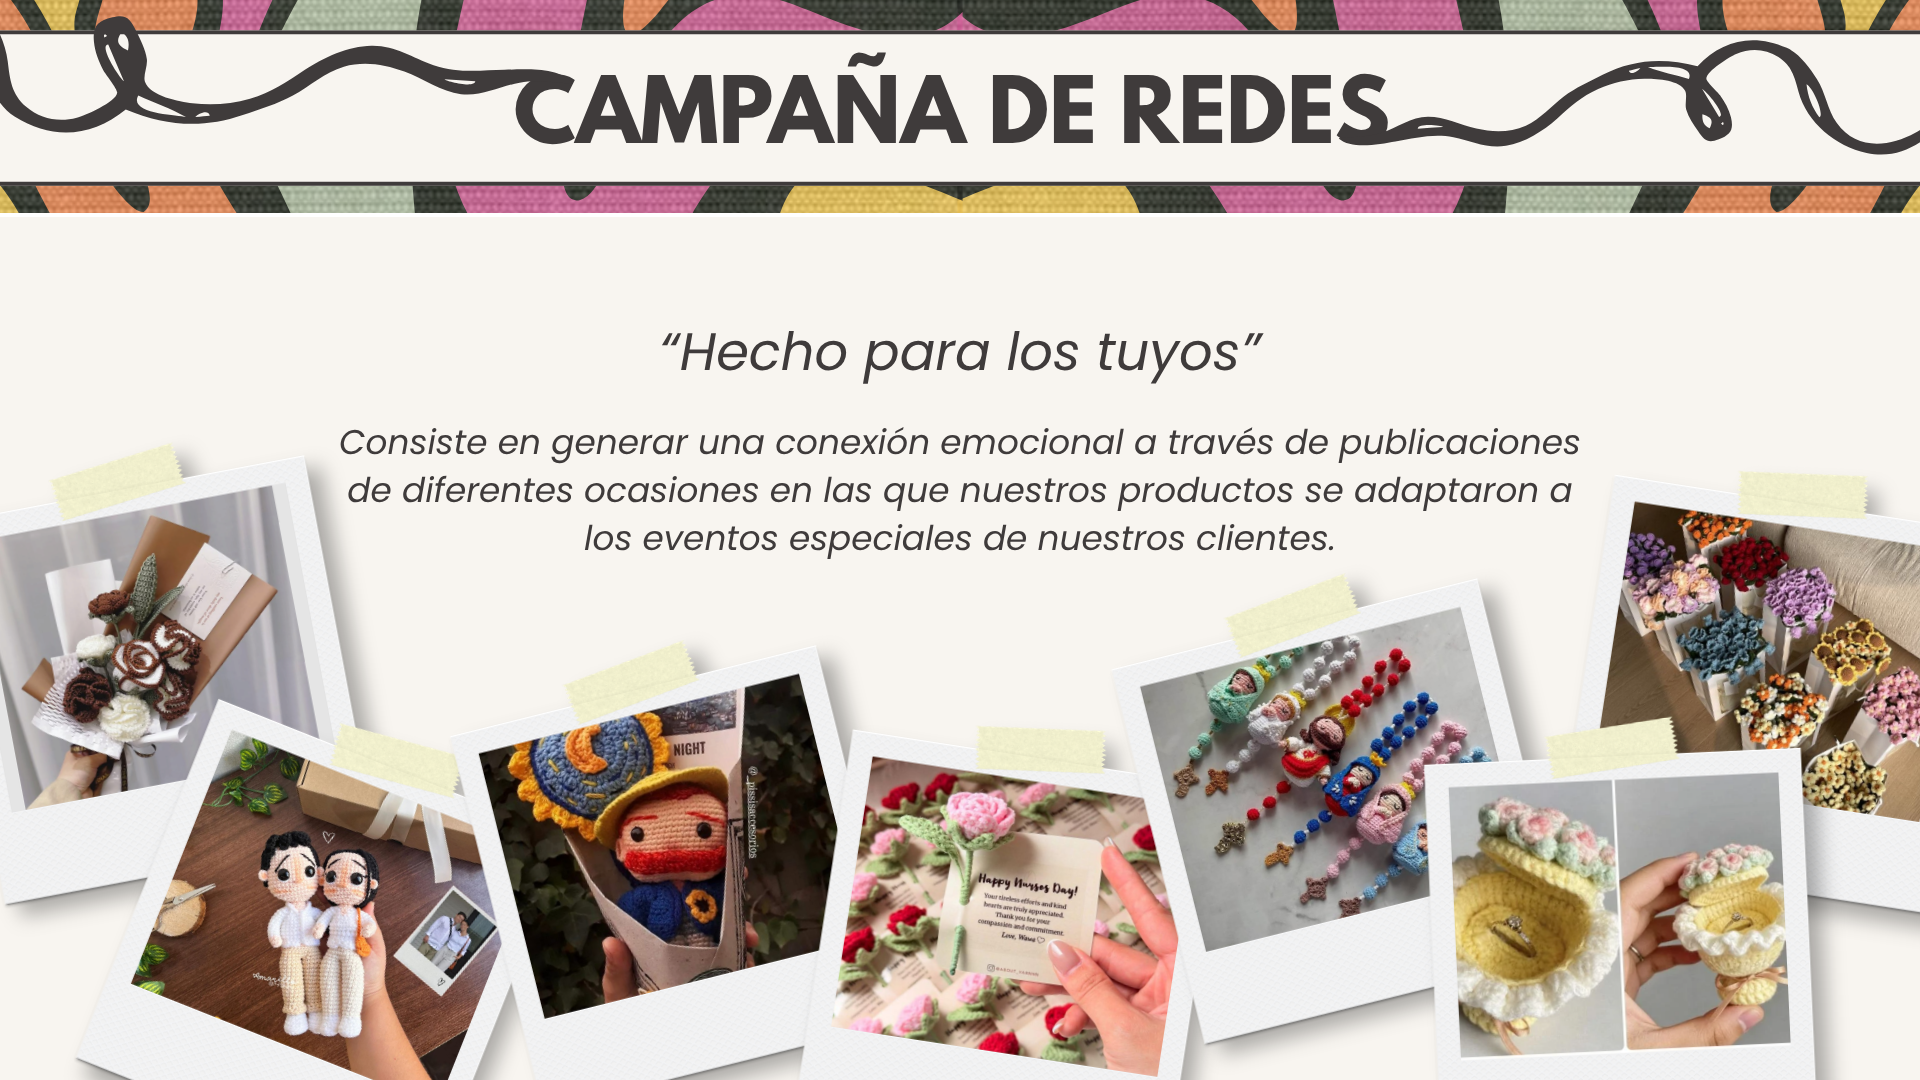
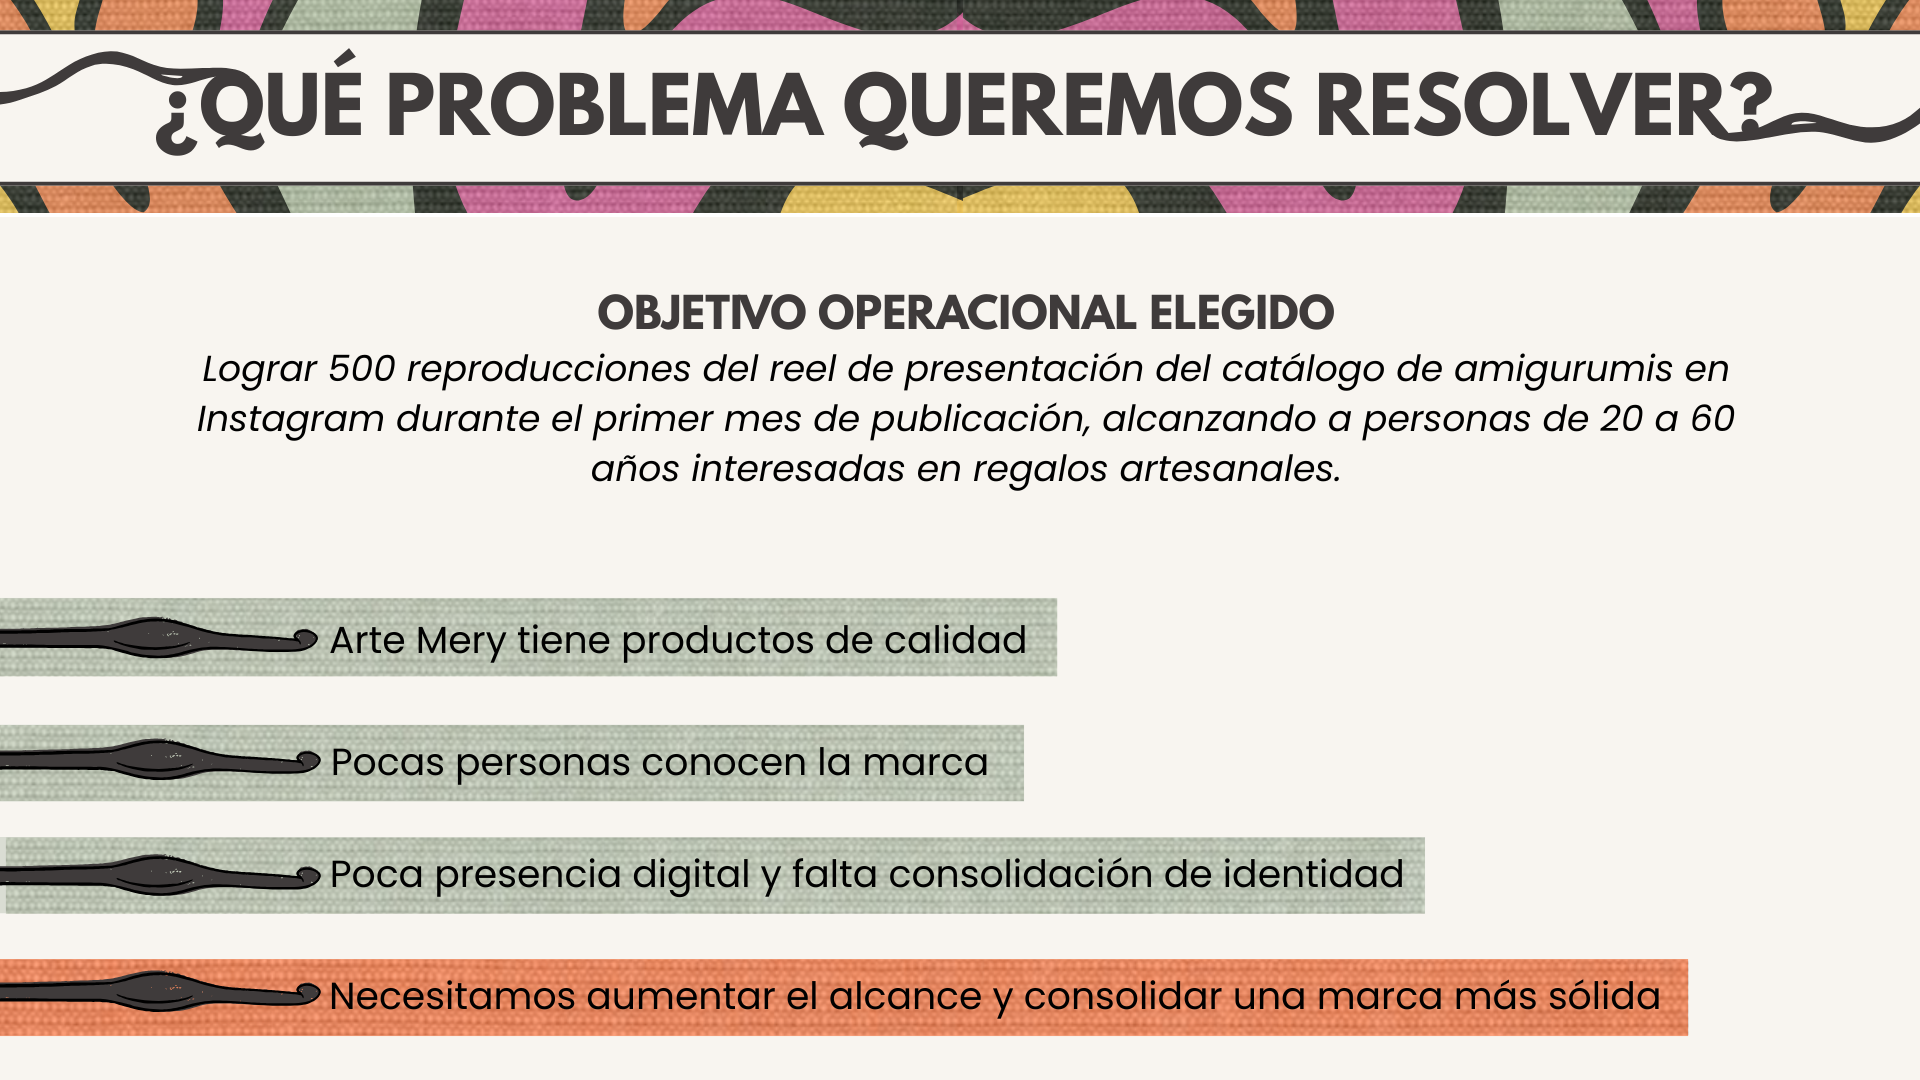
commit_nuevo

diff --git a/index.html b/index.html
@@ -2412,14 +2412,18 @@ artemery: {
   images: [
     'imagenes/artemery/artemery.png',
     'imagenes/artemery/artemery1.png',
-    'imagenes/artemery/artemery2.png',
+    'imagenes/artemery/artemery10.png',
+    'imagenes/artemery/artemery11.png',
     'imagenes/artemery/artemery3.png',
     'imagenes/artemery/artemery4.png',
     'imagenes/artemery/artemery5.png',
     'imagenes/artemery/artemery6.png',
     'imagenes/artemery/artemery7.png',
     'imagenes/artemery/artemery8.png',
-    'imagenes/artemery/artemery9.png'
+    'imagenes/artemery/artemery11.png',
+    'imagenes/artemery/artemery9.png',
+
+    
   ]
 },
 casahistorica: {